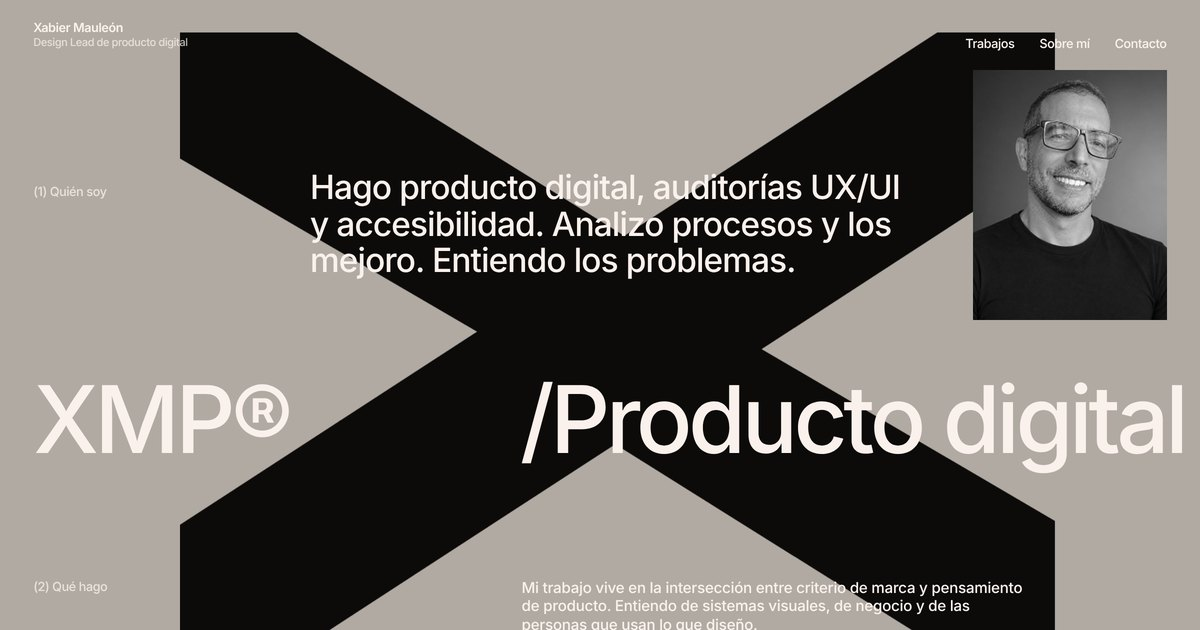
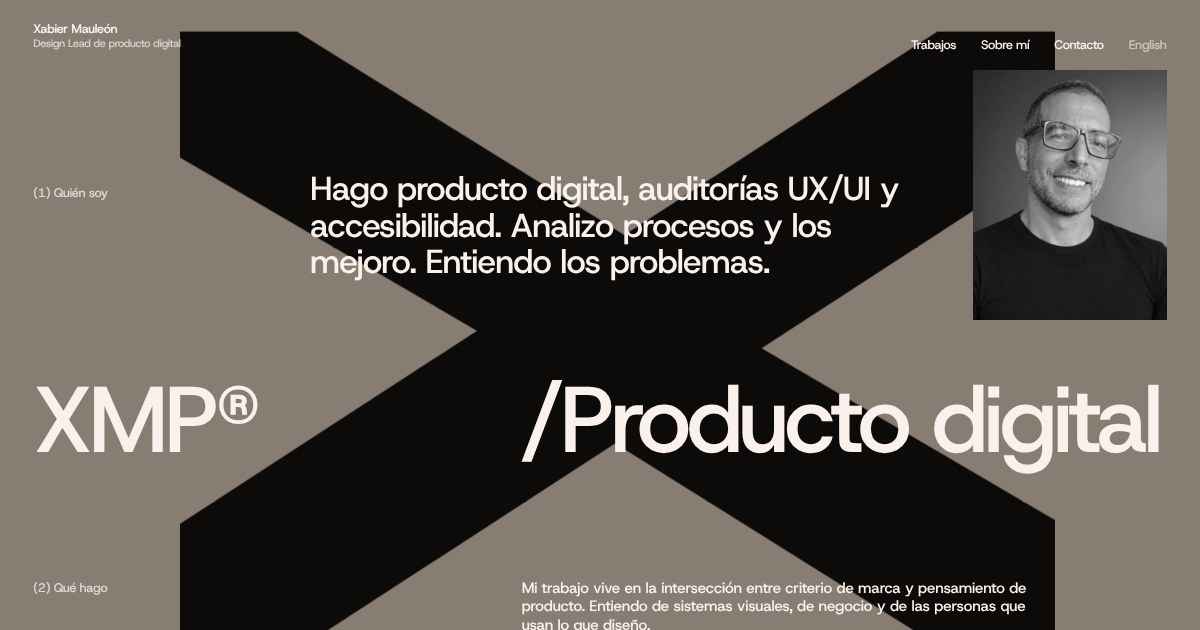
El suelo baja a #887D72
El topo claro dejaba el hueso en 2,07:1. Con este valor sube a 3,62:1 y las
letras XMP del fondo se quedan en 4,89:1, que sigue siendo masa de sobra.
Es el punto donde el texto gana sin que el efecto pierda.

Cambia en el sitio, en el CV, en el theme-color y en la imagen de
previsualización, que llevaba el fondo viejo incrustado.

Claude-Session: https://claude.ai/code/session_01RqMpAwD3vqZaJWAbyTuzMj

diff --git a/index.html b/index.html
@@ -22,7 +22,7 @@
 <meta name="twitter:title" content="Xabier Mauleón — Dirección de arte, marca y producto digital">
 <meta name="twitter:description" content="Dirección de arte, marca y producto digital. Hago producto digital, auditorías UX/UI y accesibilidad. Analizo procesos y los mejoro.">
 <meta name="twitter:image" content="https://xabiermauleon.com/og.jpg">
-<meta name="theme-color" content="#B1AAA3">
+<meta name="theme-color" content="#887D72">
 <link rel="icon" href="favicon.svg" type="image/svg+xml">
 <link rel="apple-touch-icon" href="icono-180.png">
 <title>Xabier Mauleón — Dirección de arte, marca y producto digital</title>
@@ -33,12 +33,12 @@
 <style>
 /* =====================================================================
    Esto es el frame «Home · escritorio — v3» del Figma, punto por punto.
-   Suelo #B1AAA3, iniciales #0C0B0A, texto #FBF1EC, Host Grotesk.
+   Suelo #887D72, iniciales #0C0B0A, texto #FBF1EC, Host Grotesk.
    Las coordenadas son las de Figma multiplicadas por --k, que vale 1 a
    1440. No hay ni un color ni un cuerpo inventado.
    ===================================================================== */
 :root{
-  --suelo:#B1AAA3;
+  --suelo:#887D72;
   --negro:#0C0B0A;
   --hueso:#FBF1EC;
   --k:clamp(0.42px,0.06944vw,1.9px);   /* 1 a 1440; la hoja sigue llenando la pantalla hasta 2736 */

diff --git a/en/index.html b/en/index.html
@@ -22,7 +22,7 @@
 <meta name="twitter:title" content="Xabier Mauleón — Art direction, brand and digital product">
 <meta name="twitter:description" content="Art direction, brand and digital product. I make digital product. I audit UX/UI and accessibility. I improve processes.">
 <meta name="twitter:image" content="https://xabiermauleon.com/og.jpg">
-<meta name="theme-color" content="#B1AAA3">
+<meta name="theme-color" content="#887D72">
 <link rel="icon" href="../favicon.svg" type="image/svg+xml">
 <link rel="apple-touch-icon" href="../icono-180.png">
 <title>Xabier Mauleón — Art direction, brand and digital product</title>
@@ -33,12 +33,12 @@
 <style>
 /* =====================================================================
    Esto es el frame «Home · escritorio — v3» del Figma, punto por punto.
-   Suelo #B1AAA3, iniciales #0C0B0A, texto #FBF1EC, Host Grotesk.
+   Suelo #887D72, iniciales #0C0B0A, texto #FBF1EC, Host Grotesk.
    Las coordenadas son las de Figma multiplicadas por --k, que vale 1 a
    1440. No hay ni un color ni un cuerpo inventado.
    ===================================================================== */
 :root{
-  --suelo:#B1AAA3;
+  --suelo:#887D72;
   --negro:#0C0B0A;
   --hueso:#FBF1EC;
   --k:clamp(0.42px,0.06944vw,1.9px);   /* 1 a 1440; la hoja sigue llenando la pantalla hasta 2736 */
